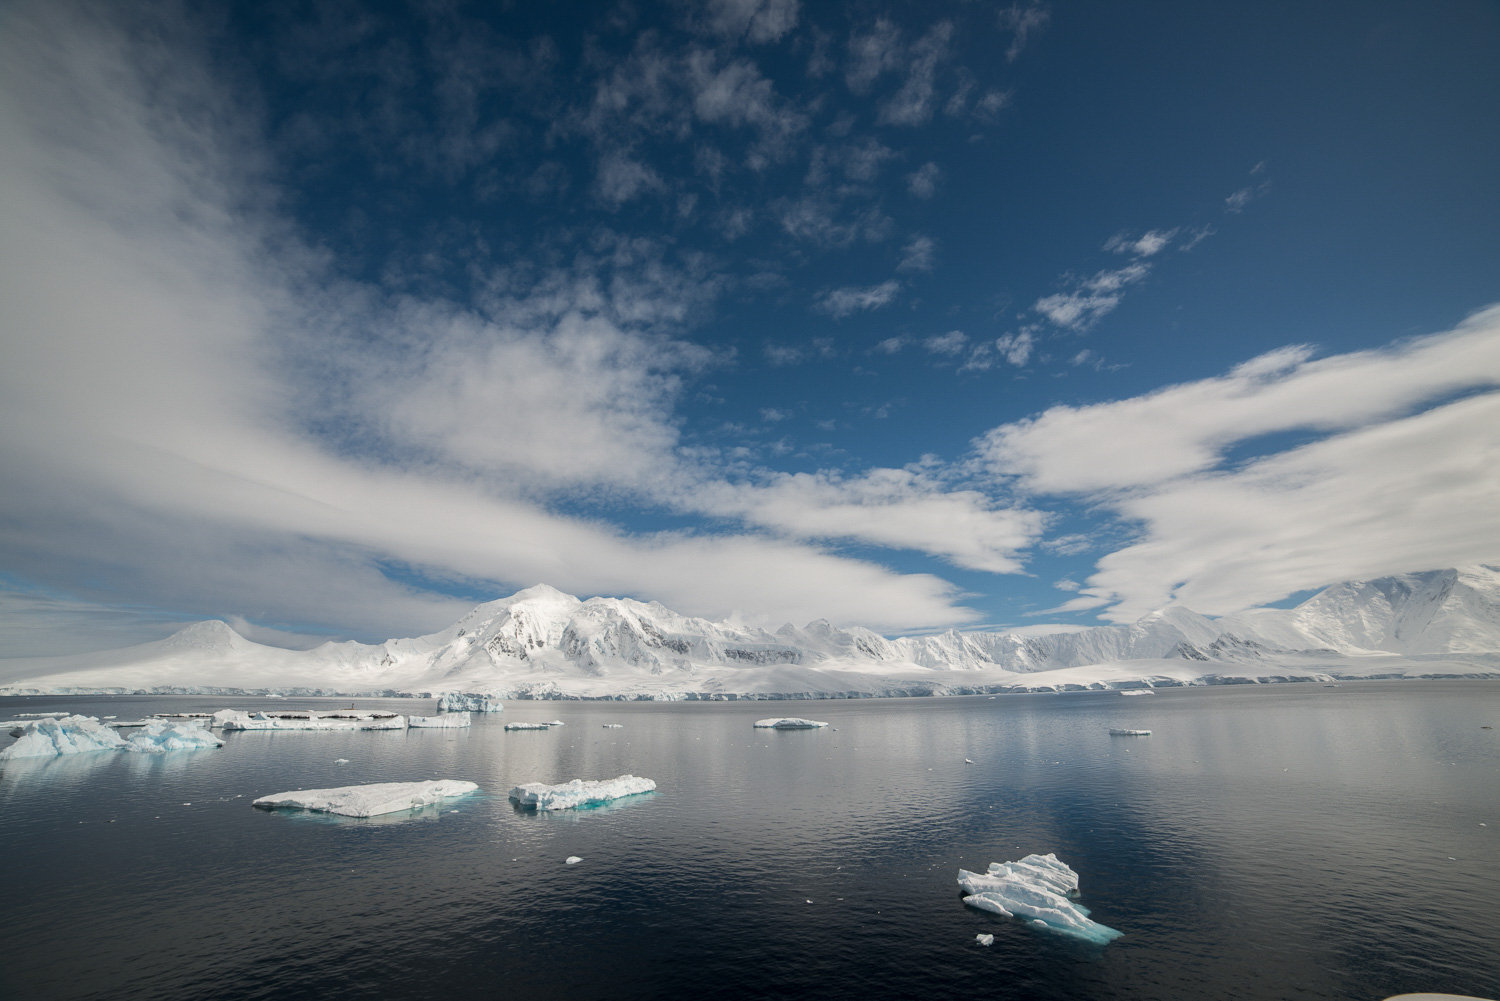
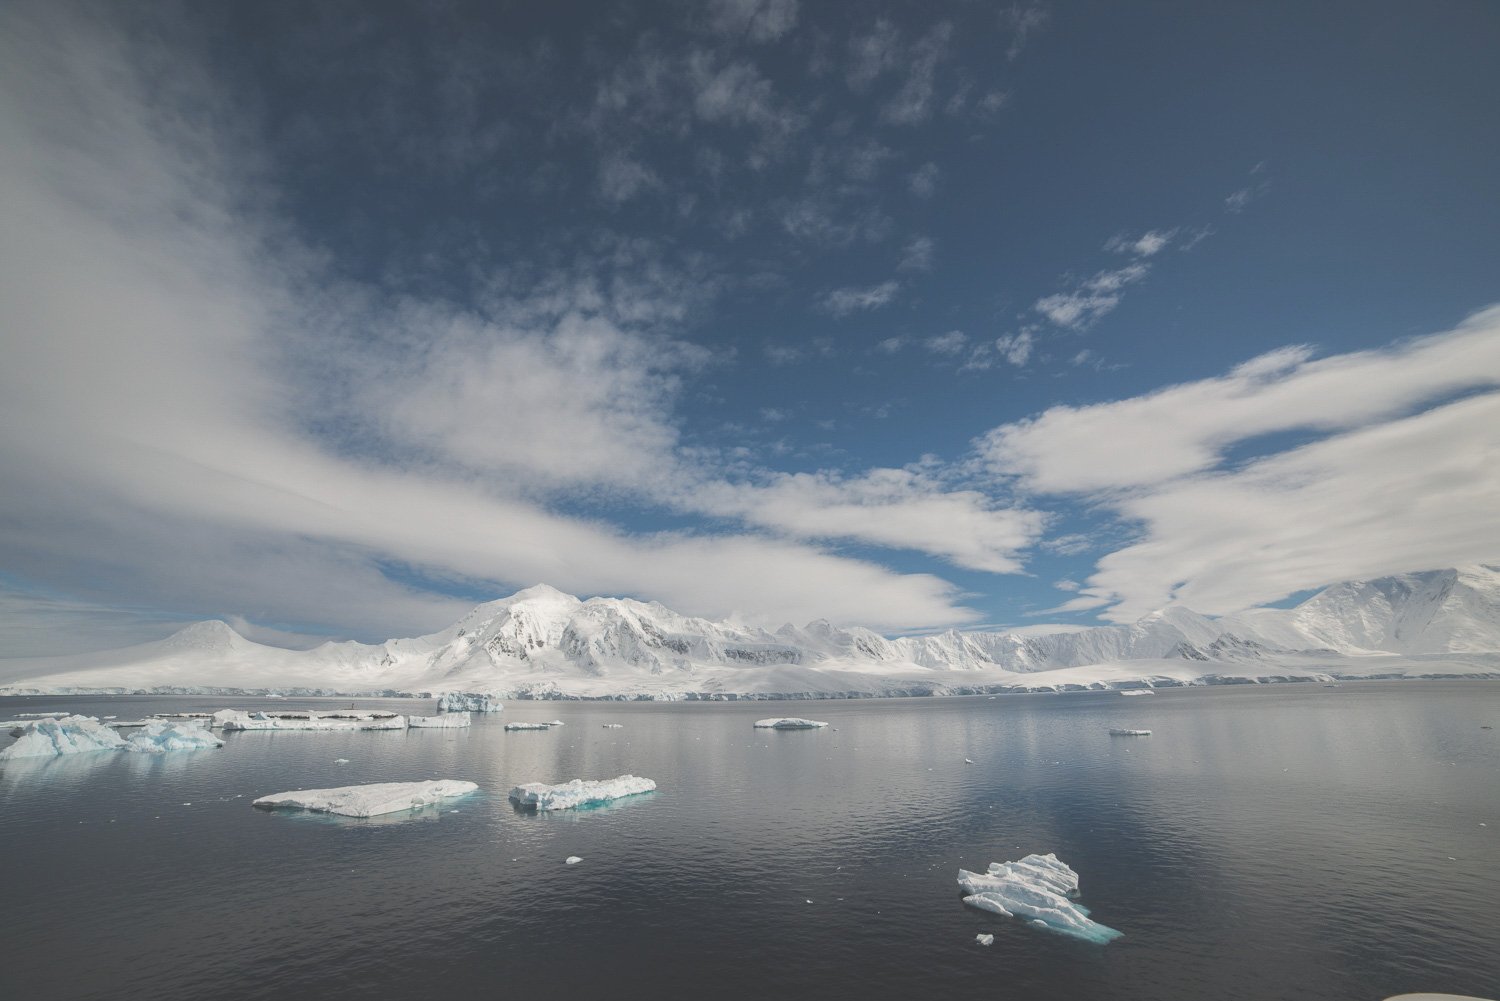
change

diff --git a/css/intro.css b/css/intro.css
@@ -1,15 +1,3 @@
-article {
-/*  just a fancy border  */
-  position: absolute;
-  top: 0;
-  left: 0;
-  right: 0;
-  bottom: 0;
-  border: 10px solid rgba(255, 255, 255, 0.5);
-  margin: 10px;
-}
-
-
 
 @media all and (max-width: 425px) {
   h1 {
@@ -23,57 +11,35 @@ article {
     text-align: center;
   }
 
-  span#author {
-    font-size: 3vw;
-    /*letter-spacing: 3px;*/
-    color: #fff;
-    font-family: 'Lato', sans-serif;
-    text-align: center;
+    #image-background {
+    /*  making the video fullscreen  */
+    opacity:0;
+    position: fixed;
+    right: 0;
+    bottom: 0;
+    min-height: 100%;
+    width: auto;
+    }
+
+}
+  #title-main {
+    font-size:35px;
+    position:absolute;
+    top:200px;
+    padding: 0 270px;
+    width:500px;
+    color:white;
+    opacity:0.8;
   }
-
-  div#short-intro {
-    font-size: 3.5vw;
-    letter-spacing: 2px;
-    color: #fff;
-    font-family: 'Lato', sans-serif;
-    margin-left: 3%;
-    margin-right: 3%;
-    text-align: center;
-    margin-top: 200%;
-  }
-
-  p#mobile-style{
-    margin-top: 80%;
-  }
-
-
-  hr#divider{
-    display: block;
-    margin-top: 0.2em;
-    margin-bottom: -0.2em;
-    margin-left: 38%;
-    margin-right: 38%;
-    border-style: inset;
-    border-width: 1px;
-  }
-
-
-  #image-background {
-  /*  making the video fullscreen  */
-  opacity:0;
-  position: fixed;
-  right: 0;
-  bottom: 0;
-  min-width: 100%;
-  min-height: 100%;
-  z-index: -100;
-  }
-
-  body {
-  margin: 0;
-  padding: 0;
-  /*  Background fallback in case of IE8 & down, or in case video doens't load, such as with slower connections  */
-
-  }
-
+  #author {
+  font-size: 0.5em;
+  letter-spacing: 1px;
+  font-family: 'Lato', sans-serif;
+  text-align: center;
+}
+#button {
+  position:absolute;
+  top:500px;
+  padding: 0 470px;
+  width:500px;
 }

diff --git a/index.html b/index.html
@@ -9,7 +9,7 @@
         <link href='https://fonts.googleapis.com/css?family=Martel:300' rel='stylesheet' type='text/css'>
         <link href='https://fonts.googleapis.com/css?family=Lato:300' rel='stylesheet' type='text/css'>
         <script src="https://ajax.googleapis.com/ajax/libs/jquery/1.12.0/jquery.min.js"></script>
-        <script src="js/title.js"></script>
+
 
     	<style>
     	</style>
@@ -18,17 +18,15 @@
     <body>
 
             <image id="image-background">
-            <img src="image/front-page.png" alt="Sea with Ice" height=500px>
+            <img src="image/front-page.jpg" alt="Sea with Ice" width=960px height=600px >
            </image>
             <h1 id="title-main">An Overview of Climate Change
             <hr id="divider">
             <span id="author"> By Shi Li</span>
             </h1>
-            <div id="short-intro"><p id="mobile-style">
-                Briefly introducation on the data left.</br>
-                Over time, sharks have been exploited by humans for various purposes, from food to medicine.The commercial exploitation of sharks started after the First World War. Shark meat was introduced into the “fish and chips” trade in the United Kingdom. Non-food uses of sharks include shark liver oil products, cartilage, skin and teeth.
-              </br></br><a id="toTemperature" href="temperature.html"><b>Next</b>.</a>
-            </p></div>
+            <div id="button">
+							<a id="toTemperature" href="temperature.html"><b>Next</b></a>
+            </div>
 
 
 

diff --git a/js/intro.js b/js/intro.js
@@ -1,0 +1,8 @@
+$(document).ready(function(){
+	$('#short-intro').hide();
+    $('#title-main').hide().delay(0).fadeIn(10000,function(){
+    	$('#title-main').animate({top:'15%'},2000);
+    	// $('#short-intro').fadeIn(2000);
+    	$('#short-intro').fadeIn(0).animate({'margin-top':'30%'},3000);
+    })
+});
